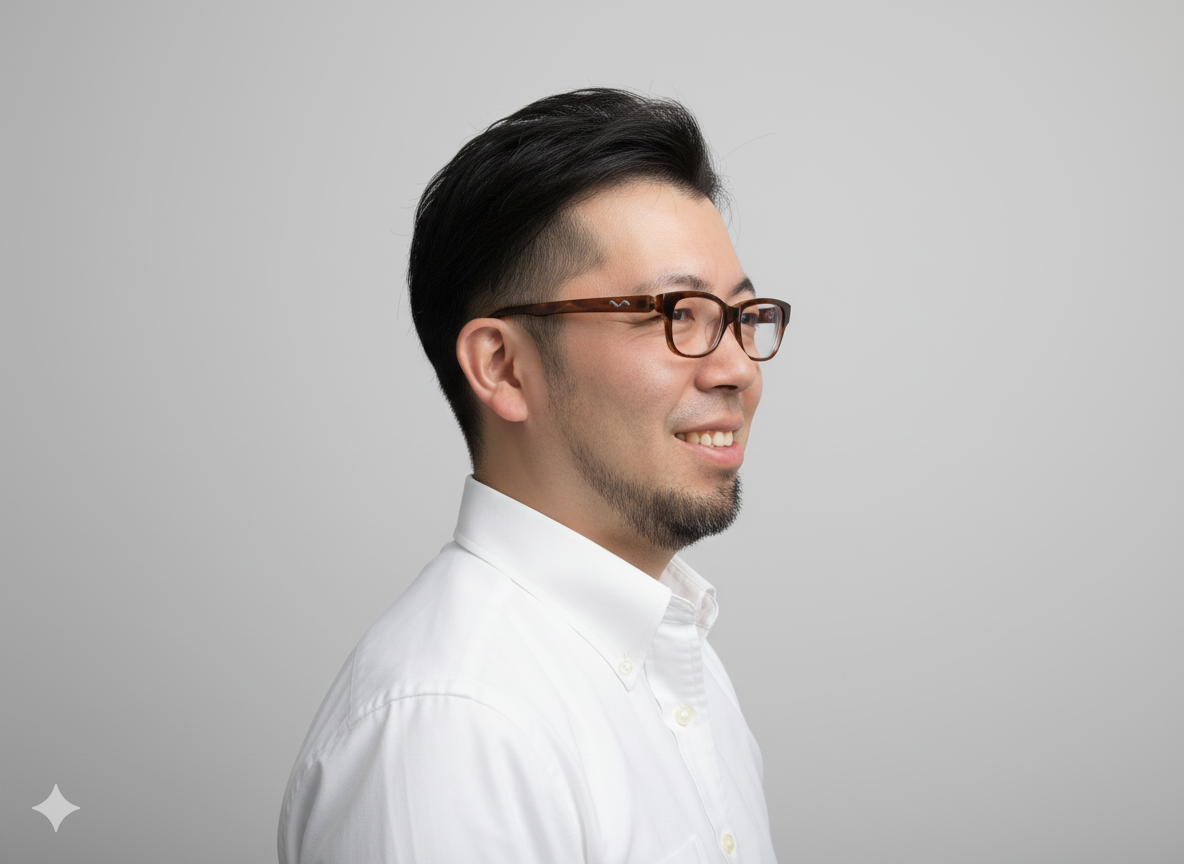
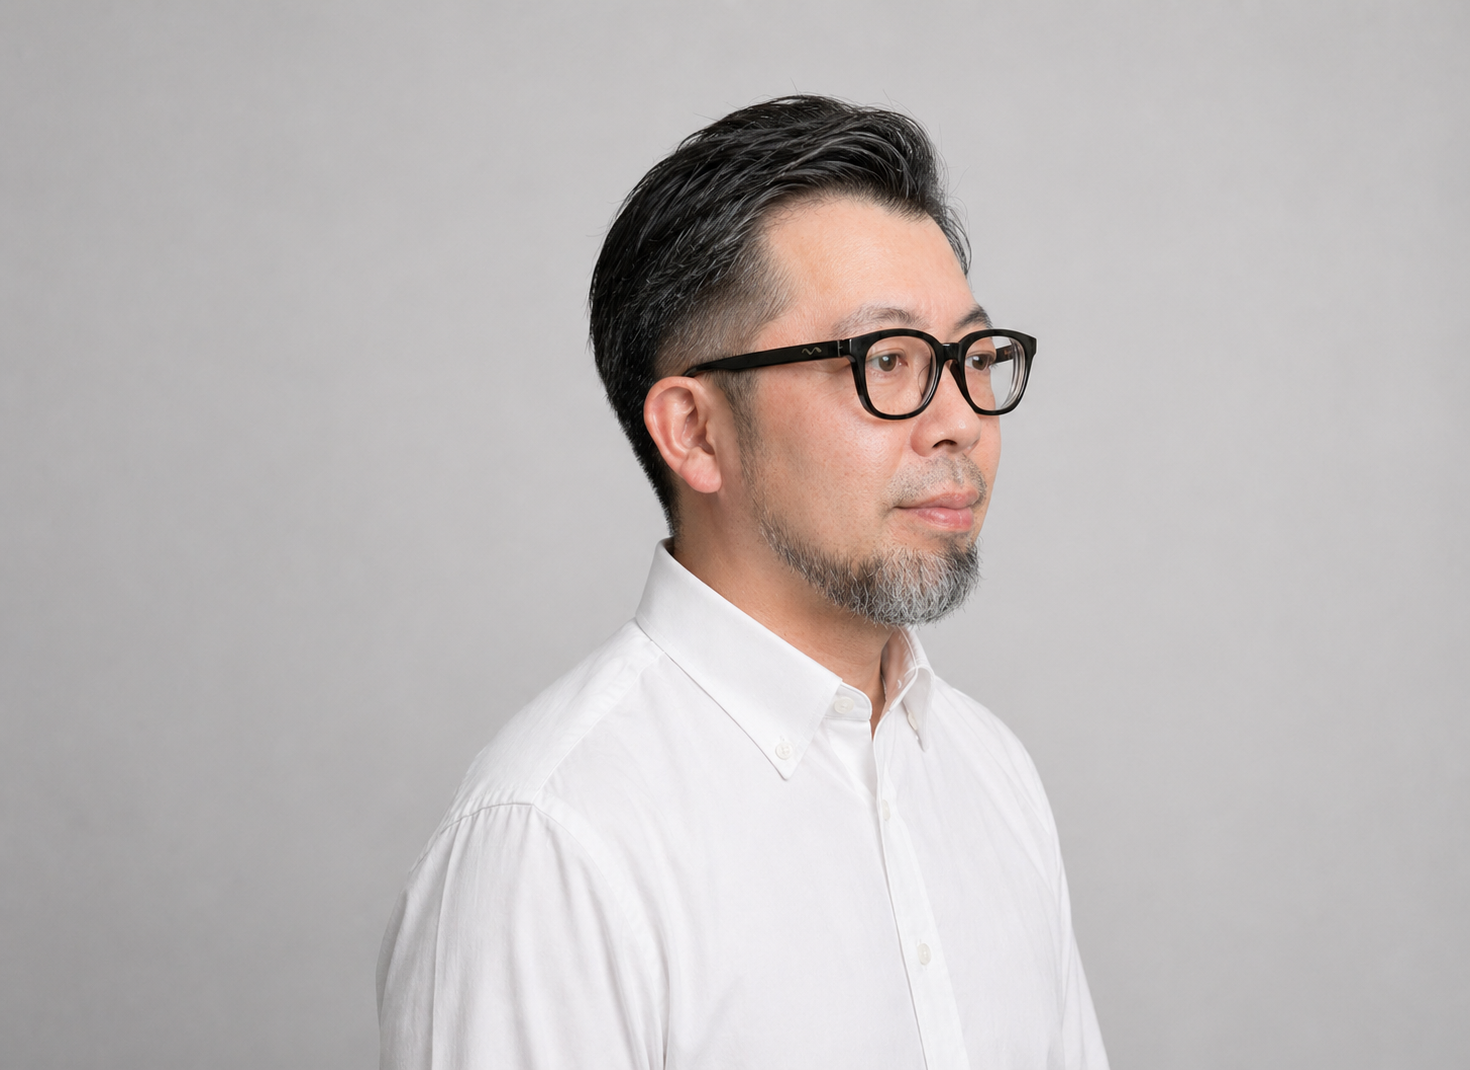
update: Philosophy 照明演出・プロフィール写真差し替え・レスポンシブ調整
- Philosophy セクションにスクロール連動の照明演出を追加（マスク反転で暖簾の光源だけが灯る）
- プロフィール写真を実写ベースの新版に差し替え（横顔3/4・銀髭・鼻下クリーン）
- About ポートレートを max-width 360px に縮小
- Works 3点 (brand-identity / corporate-web / regional-content) を .png に差し替え
- MorphLogo の --left-nav をタブレット幅 (641-1100px) で 28px に修正（nav-inner padding と整合）
- モバイル ≤640px / ≤380px のレスポンシブ表示を全セクションで整備
- 各クライアントロゴを差し替え
- アセットキャッシュバスター更新 (styles.css?v=16, profile.png?v=3)

diff --git a/nav-hero.jsx b/nav-hero.jsx
@@ -206,32 +206,65 @@ const Hero = () => (
   </section>
 );
 
-const Philosophy = () => (
-  <section id="philosophy" className="philosophy">
-    <div className="phil-inner">
-      <span className="phil-num">I. — Philosophy</span>
-      <div className="phil-rule"></div>
-      <h2 className="phil-vision">
-        経営者の一歩を、<br/>灯りに変えるために。
-      </h2>
-      <div className="phil-body">
-        <p>
-          TOMOSU.（灯す）という屋号には、<br/>
-          経営という暗い道を歩む方の、次の一歩を照らす存在でありたい——<br/>
-          その願いを込めています。
-        </p>
-        <p>
-          机上の戦略屋でも、請負の制作屋でもなく、<br/>
-          経営者の隣で、確かな灯りとして在り続けること。<br/>
-          それが、私たちの仕事の芯です。
-        </p>
+/* Philosophy photo: scroll-driven illumination.
+   --lit goes 0 (closed/dark shop) → 1 (warm noren glow on) as the photo
+   moves up through the viewport. */
+const Philosophy = () => {
+  const photoRef = React.useRef(null);
+  React.useEffect(() => {
+    const update = () => {
+      const el = photoRef.current;
+      if (!el) return;
+      const rect = el.getBoundingClientRect();
+      const vh = window.innerHeight || 800;
+      // Start lighting when the photo's top crosses ~85% from the top
+      // of the viewport; fully lit when it reaches ~30%.
+      const start = vh * 0.85;
+      const end = vh * 0.30;
+      const raw = (start - rect.top) / (start - end);
+      const p = Math.max(0, Math.min(1, raw));
+      // Smoothstep — gentle ease-in-out
+      const eased = p * p * (3 - 2 * p);
+      el.style.setProperty('--lit', eased);
+    };
+    update();
+    window.addEventListener('scroll', update, { passive: true });
+    window.addEventListener('resize', update);
+    return () => {
+      window.removeEventListener('scroll', update);
+      window.removeEventListener('resize', update);
+    };
+  }, []);
+  return (
+    <section id="philosophy" className="philosophy">
+      <div className="phil-inner">
+        <span className="phil-num">I. — Philosophy</span>
+        <div className="phil-rule"></div>
+        <h2 className="phil-vision">
+          経営者の一歩を、<br/>灯りに変えるために。
+        </h2>
+        <div className="phil-body">
+          <p>
+            TOMOSU.（灯す）という屋号には、<br/>
+            経営という暗い道を歩む方の、次の一歩を照らす存在でありたい——<br/>
+            その願いを込めています。
+          </p>
+          <p>
+            机上の戦略屋でも、請負の制作屋でもなく、<br/>
+            経営者の隣で、確かな灯りとして在り続けること。<br/>
+            それが、私たちの仕事の芯です。
+          </p>
+        </div>
+        <div ref={photoRef} className="phil-photo phil-photo--lit photo-slot photo-slot--dark" style={{ ['--lit']: 0 }}>
+          <img src="assets/scenes/philosophy-night-shop.jpg" alt="夜の群馬の裏道に灯る小さな店" className="photo-slot-img"/>
+          <div className="phil-photo__dim" aria-hidden="true"></div>
+          <div className="phil-photo__lights" aria-hidden="true"></div>
+          <div className="phil-photo__glow" aria-hidden="true"></div>
+        </div>
+        <div className="phil-sign">— Tomosu.</div>
       </div>
-      <div className="phil-photo photo-slot photo-slot--dark">
-        <img src="assets/scenes/philosophy-night-shop.jpg" alt="夜の群馬の裏道に灯る小さな店" className="photo-slot-img"/>
-      </div>
-      <div className="phil-sign">— Tomosu.</div>
-    </div>
-  </section>
-);
+    </section>
+  );
+};
 
 Object.assign(window, { Nav, MorphLogo, Hero, Philosophy, scrollToId, NAV_ITEMS });

diff --git a/styles.css b/styles.css
@@ -427,6 +427,8 @@ section { position: relative; }
 }
 .about-portrait {
   aspect-ratio: 3/4;
+  width: 100%;
+  max-width: 360px;
   border: 1px solid var(--line);
   background: linear-gradient(160deg, #F3F1EB 0%, #e7e3d8 100%);
   position: relative;
@@ -1761,6 +1763,8 @@ section { position: relative; }
   .nav-cta { display: none; }
   .nav-burger { display: block; }
   .mobile-menu { display: block; }
+  /* Align docked MorphLogo with nav-inner padding in this range */
+  .morph-logo { --left-nav: 28px; }
   .works-tabs { gap: 28px; overflow-x: auto; }
   .mobile-menu-meta { flex-direction: column; gap: 8px; }
   .voice-header, .voice-list, .voice-note { padding-left: 28px; padding-right: 28px; }
@@ -1959,6 +1963,92 @@ section { position: relative; }
   max-width: 720px;
   margin: 80px auto 60px;
   width: 100%;
+}
+
+/* Scroll-driven illumination — --lit (0..1) is set from JS.
+   Layered over the existing photo-slot-img so the cinematic
+   shop "lights up" as the photo enters the viewport. */
+.phil-photo--lit { --lit: 0; }
+/* Bottom layer: starts very dim, gently lifts to a moderate dusk
+   brightness at full lit — surroundings come up but never match
+   the lit noren. Light only ever reaches mid-brightness here. */
+.phil-photo--lit .photo-slot-img {
+  filter:
+    grayscale(calc(0.42 - 0.32 * var(--lit, 0)))
+    contrast(1.06)
+    saturate(calc(0.30 + 0.55 * var(--lit, 0)))
+    brightness(calc(0.30 + 0.42 * var(--lit, 0)));
+  transition: filter 0.22s linear;
+}
+/* Ambient corner dim that fades fully out at lit=1 */
+.phil-photo__dim {
+  position: absolute;
+  inset: 0;
+  z-index: 2;
+  pointer-events: none;
+  background: radial-gradient(
+    ellipse 80% 100% at 68% 54%,
+    rgba(0, 0, 0, 0.0) 0%,
+    rgba(0, 0, 0, 0.18) 55%,
+    rgba(0, 0, 0, 0.50) 100%
+  );
+  opacity: calc(1 - var(--lit, 0));
+  transition: opacity 0.22s linear;
+}
+/* The "lights on" reveal: same image, masked to the noren region,
+   then BRIGHTENED past 1x so the lamp pops harder than the source. */
+.phil-photo__lights {
+  position: absolute;
+  inset: 0;
+  z-index: 3;
+  pointer-events: none;
+  background-image: url('assets/scenes/philosophy-night-shop.jpg');
+  background-size: cover;
+  background-position: center;
+  background-repeat: no-repeat;
+  -webkit-mask-image:
+    radial-gradient(ellipse 20% 30% at 68% 52%, #000 38%, transparent 80%),
+    radial-gradient(ellipse 18% 9%  at 68% 76%, #000 12%, transparent 82%);
+          mask-image:
+    radial-gradient(ellipse 20% 30% at 68% 52%, #000 38%, transparent 80%),
+    radial-gradient(ellipse 18% 9%  at 68% 76%, #000 12%, transparent 82%);
+  -webkit-mask-composite: source-over;
+          mask-composite: add;
+  /* Boost: as --lit climbs, the noren is rendered brighter than source */
+  filter:
+    brightness(calc(1.0 + 0.55 * var(--lit, 0)))
+    saturate(calc(1.0 + 0.20 * var(--lit, 0)));
+  opacity: var(--lit, 0);
+  transition: opacity 0.22s linear, filter 0.22s linear;
+}
+/* Strong tungsten bloom — wider + warmer at full lit */
+.phil-photo__glow {
+  position: absolute;
+  inset: 0;
+  z-index: 4;
+  pointer-events: none;
+  background:
+    radial-gradient(
+      ellipse 14% 18% at 68% 54%,
+      rgba(255, 220, 160, 0.80) 0%,
+      rgba(255, 190, 110, 0.45) 35%,
+      rgba(255, 150, 70, 0.00) 70%
+    ),
+    radial-gradient(
+      ellipse 32% 40% at 68% 54%,
+      rgba(255, 188, 110, 0.42) 0%,
+      rgba(255, 150, 70, 0.18) 45%,
+      rgba(255, 120, 50, 0.00) 80%
+    );
+  opacity: var(--lit, 0);
+  mix-blend-mode: screen;
+  transition: opacity 0.22s linear;
+}
+@media (prefers-reduced-motion: reduce) {
+  .phil-photo__dim,
+  .phil-photo__lights,
+  .phil-photo__glow { transition: none; }
+  .phil-photo--lit { --lit: 1 !important; }
 }
 
 /* — About secondary scenes (two-up) — */

diff --git a/about-services-works.jsx b/about-services-works.jsx
@@ -10,7 +10,7 @@ const About = () => (
   <section id="about" className="about">
     <div className="about-grid">
       <div className="about-portrait">
-        <img src="assets/profile.png" alt="大内 嵩志 Takashi Ouchi" className="about-portrait-img"/>
+        <img src="assets/profile.png?v=3" alt="大内 嵩志 Takashi Ouchi" className="about-portrait-img"/>
         <div className="label">Takashi Ouchi</div>
       </div>
       <div className="about-content">
@@ -159,9 +159,9 @@ const CLIENTS = [
   { name: 'よいどころ千福', en: 'Yoidokoro Senpuku', cat: 'Izakaya', logo: 'assets/clients/senpuku.png', company: '株式会社千福', shotImg: 'assets/clients/shots/senpuku.jpg' },
 ];
 const SAMPLES = [
-  { title: 'ブランドデザイン一式', en: 'Brand Identity Suite', img: 'assets/works/brand-identity.jpg', desc: '名刺・ショップカード・メニュー・POP・ステッカー・Tシャツまで、ブランドの表現を一貫した手触りで構築します。' },
-  { title: 'コーポレートサイト制作', en: 'Corporate Web', img: 'assets/works/corporate-web.jpg', desc: '伝えるべき価値を、読みやすく、静かに届ける設計。立ち上げ後の運用まで伴走します。' },
-  { title: '地域コンテンツ制作', en: 'Regional Content', img: 'assets/works/regional-content.jpg', desc: '地域の事業者と共につくる、写真・映像・文章。観光と生業の両輪を照らす企画を。' },
+  { title: 'ブランドデザイン一式', en: 'Brand Identity Suite', img: 'assets/works/brand-identity.png?v=2', desc: '名刺・ショップカード・メニュー・POP・ステッカー・Tシャツまで、ブランドの表現を一貫した手触りで構築します。' },
+  { title: 'コーポレートサイト制作', en: 'Corporate Web', img: 'assets/works/corporate-web.png?v=2', desc: '伝えるべき価値を、読みやすく、静かに届ける設計。立ち上げ後の運用まで伴走します。' },
+  { title: '地域コンテンツ制作', en: 'Regional Content', img: 'assets/works/regional-content.png?v=2', desc: '地域の事業者と共につくる、写真・映像・文章。観光と生業の両輪を照らす企画を。' },
 ];
 const COMMISSIONS = [
   { title: '弁当製造・調達運営', body: '地域イベント向け大量製造オペレーションを設計・統括。', photoImg: 'assets/commission/commission-01-bento.jpg' },

diff --git a/TOMOSU Corporate Site.html b/TOMOSU Corporate Site.html
@@ -33,7 +33,7 @@
 <link rel="preconnect" href="https://fonts.googleapis.com"/>
 <link rel="preconnect" href="https://fonts.gstatic.com" crossorigin/>
 <link href="https://fonts.googleapis.com/css2?family=Cormorant+Infant:ital,wght@0,300;0,400;0,500;1,300;1,400&family=EB+Garamond:ital,wght@0,400;0,500;1,400;1,500&family=Libre+Caslon+Text:ital,wght@0,400;1,400&family=Crimson+Pro:ital,wght@0,300;0,400;0,500;1,300;1,400&family=Playfair+Display:ital,wght@0,400;0,500;1,400;1,500&family=Instrument+Serif:ital@0;1&family=Source+Serif+4:ital,wght@0,300;0,400;0,500;1,300;1,400&family=Noto+Sans+JP:wght@200;300;400;500&family=Noto+Serif+JP:wght@200;300;400;500&family=Inter:wght@300;400&display=swap" rel="stylesheet"/>
-<link rel="stylesheet" href="styles.css?v=10"/>
+<link rel="stylesheet" href="styles.css?v=16"/>
 </head>
 <body>
   <div id="root"></div>
